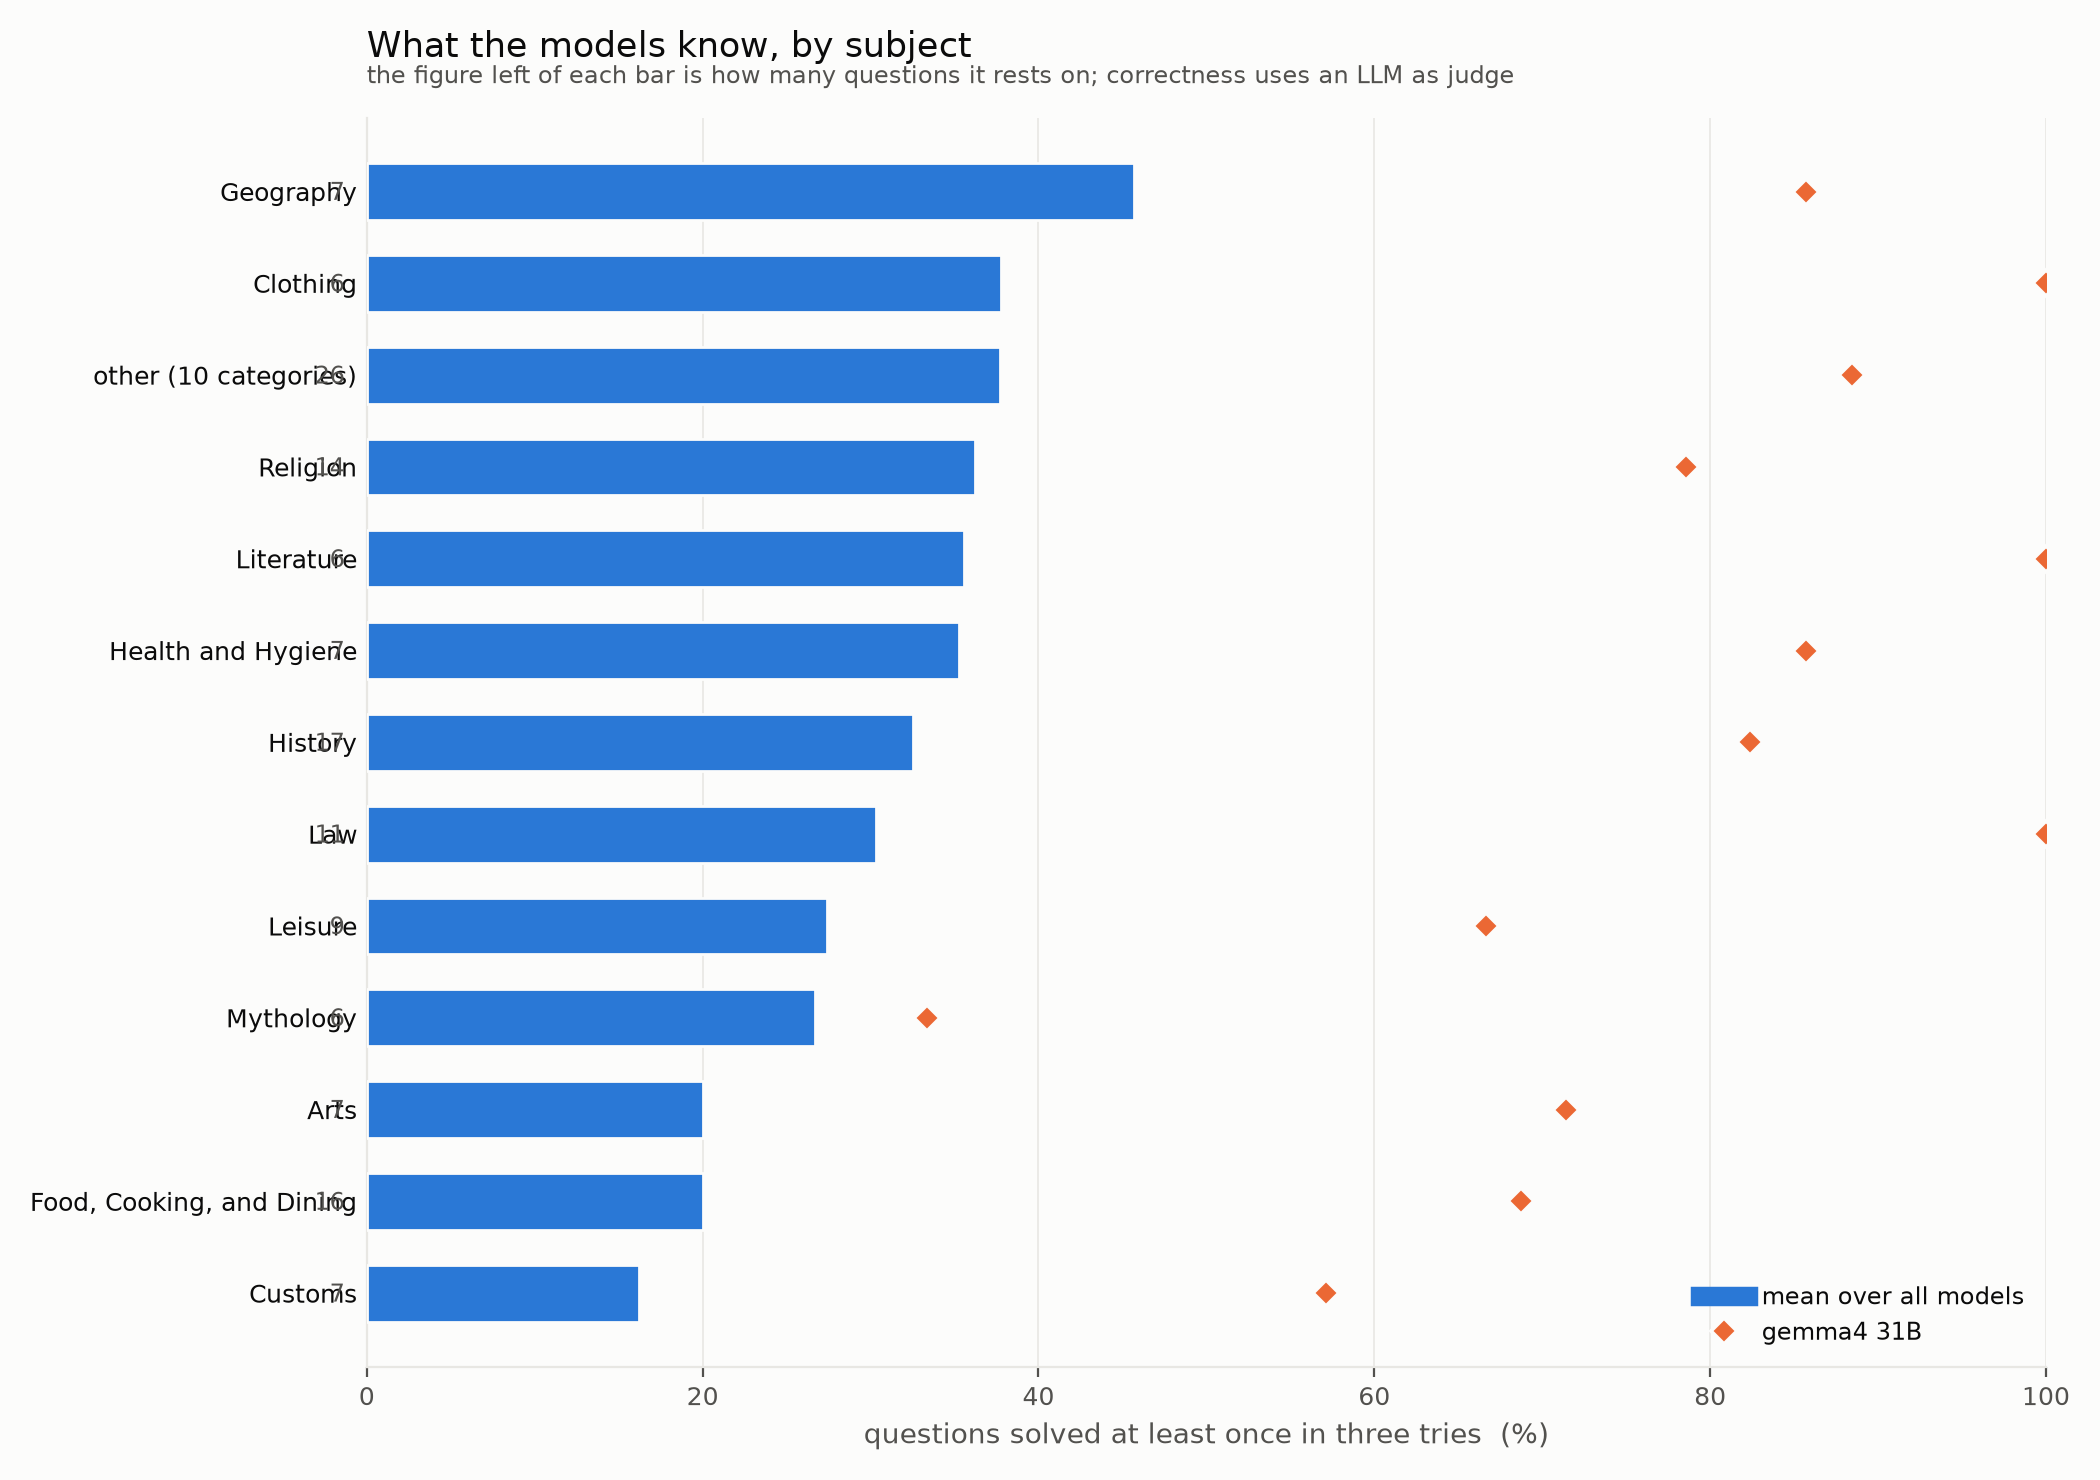
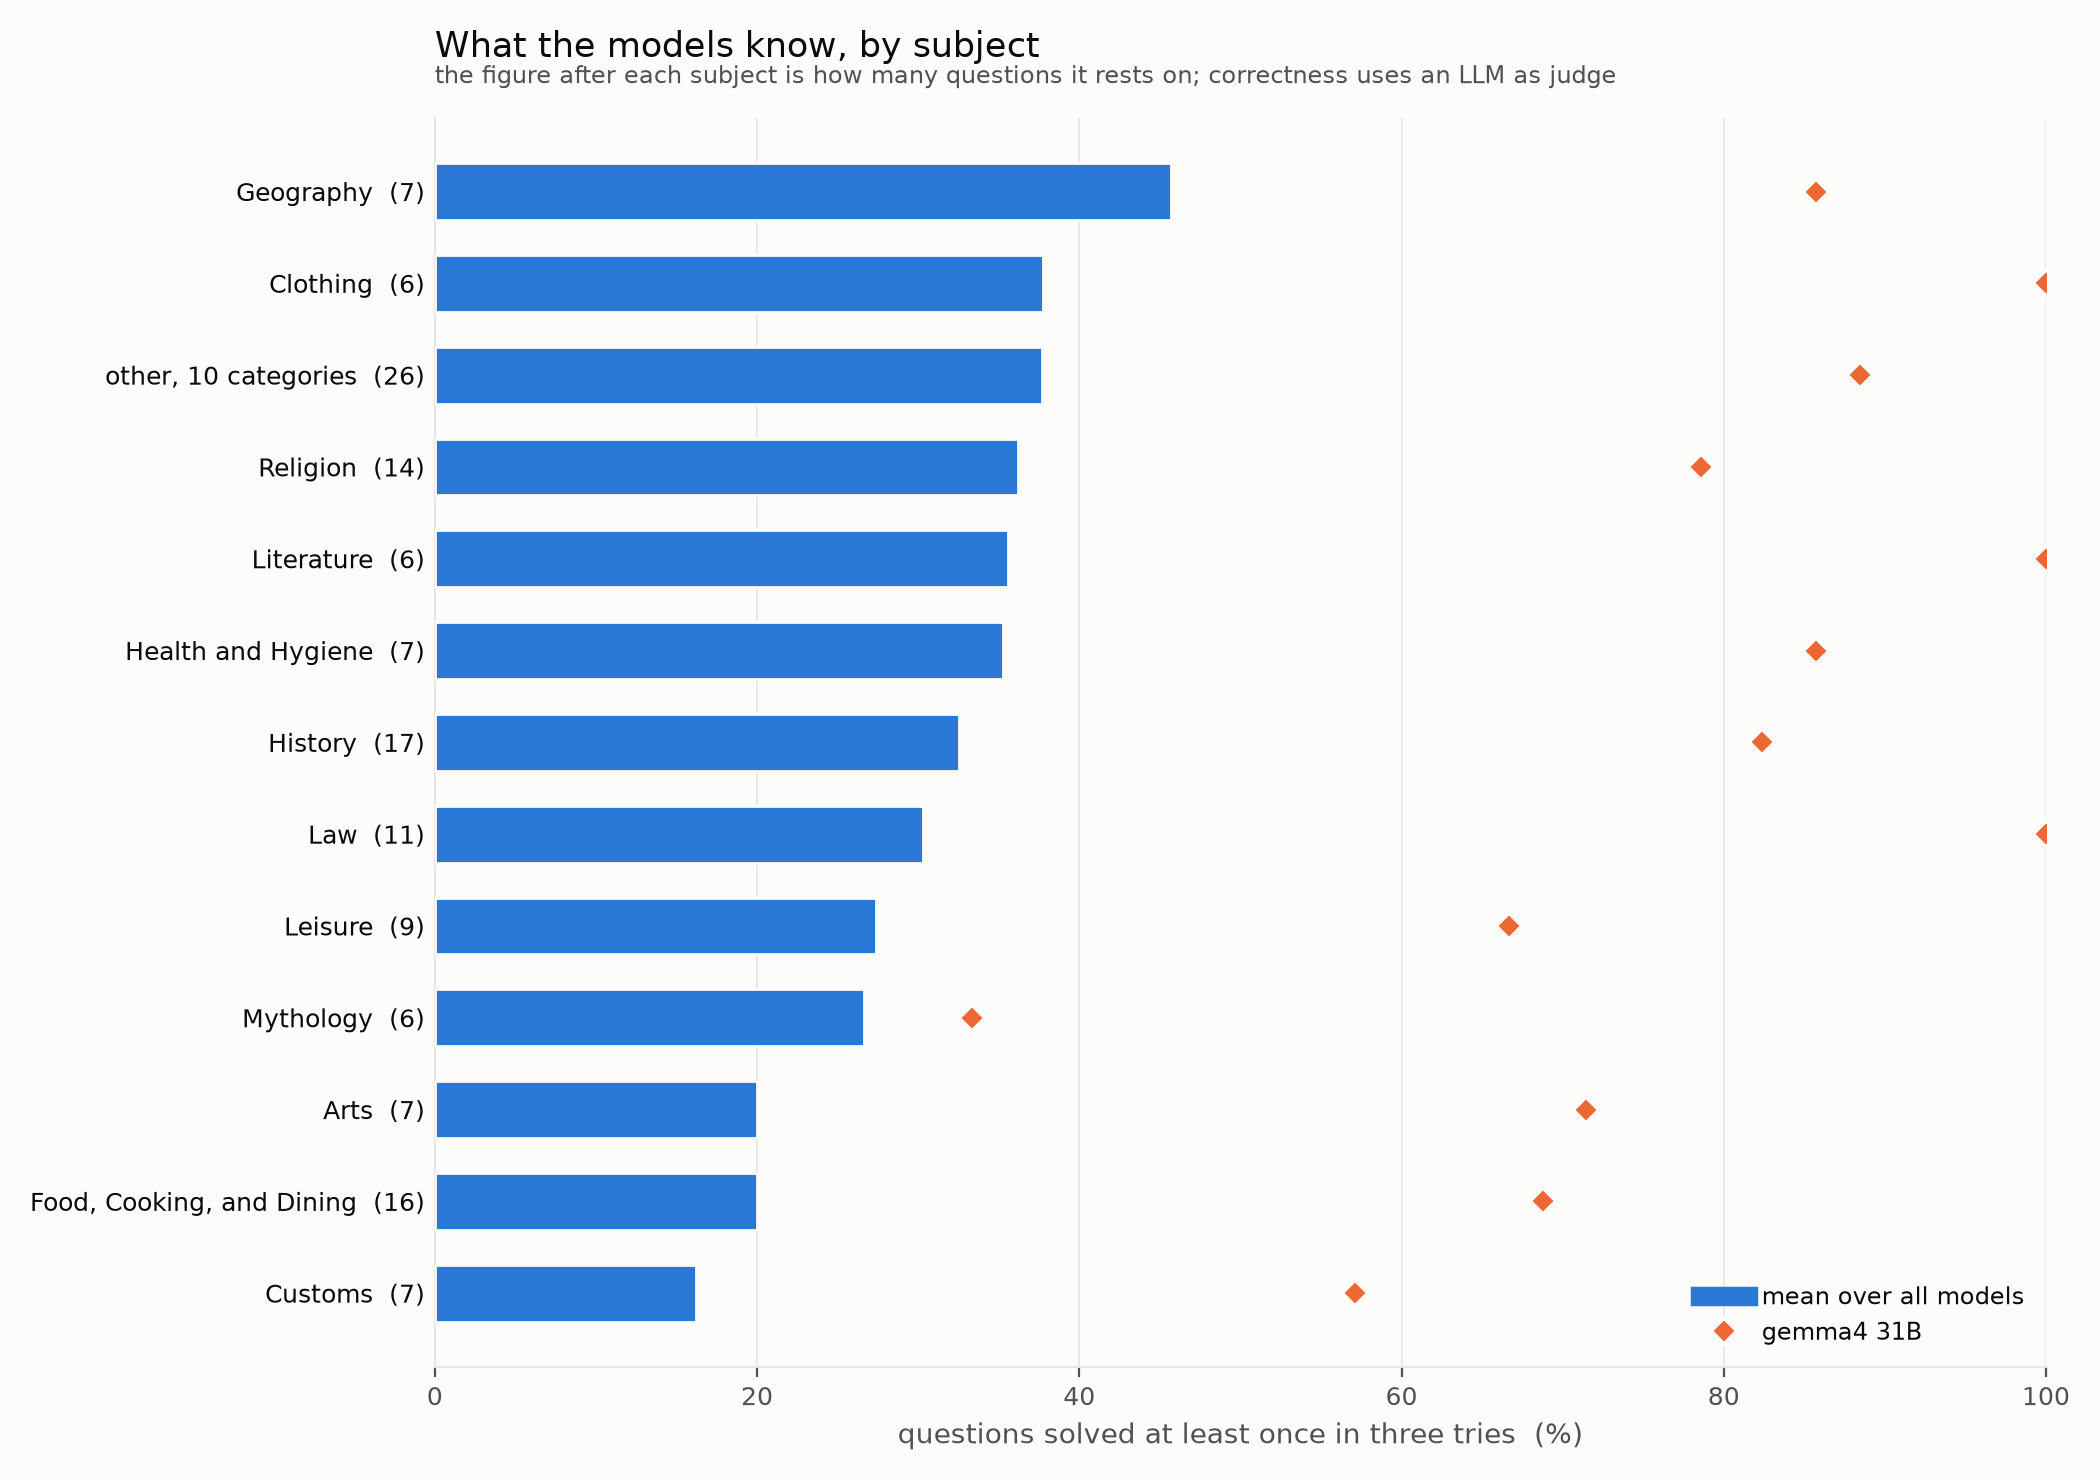
category-knowledge: stop the question count colliding with the subject
The count was annotated at data x=0 with a right-aligned offset, which
puts it on top of the y tick label rather than beside the bar:
"Geograph7y", "Religio14n". It rides in the tick label now, where nothing
else is drawn. Setting it at the bar's end was the other option and would
have collided with the reference marker on the short bars.

Claude-Session: https://claude.ai/code/session_01Lmq72U59stJL8KjcFk9BQq

diff --git a/graphs/category_knowledge.py b/graphs/category_knowledge.py
@@ -64,8 +64,13 @@ def tabulate(qa_path, eval_dir, min_q):
     rows = []
     for c in per:
         n = sum(nq[k] for k in nq if (k == c or (c == "other" and k in folded)))
+        name = c if c != "other" else f"other, {len(folded)} categories"
         rows.append({
-            "category": c if c != "other" else f"other ({len(folded)} categories)",
+            "category": name,
+            # The question count rides in the tick label. Set beside the axis it
+            # lands on top of the subject name; set at the bar's end it collides
+            # with the reference marker.
+            "label": f"{name}  ({n})",
             "questions": n,
             "mean": 100 * sum(per[c]) / len(per[c]),
             "top": 100 * sum(top[c]) / len(top[c]) if top[c] else None,
@@ -92,11 +97,9 @@ def render_png(rows, best, path):
         if r["top"] is not None:
             ax.plot(r["top"], y, "D", ms=6.5, color=TOP, mec=E.SURFACE, mew=1.3,
                     zorder=6)
-        ax.annotate(f"{r['questions']}", (0, y), textcoords="offset points",
-                    xytext=(-8, -3), ha="right", fontsize=8.5, color=E.MUTED)
 
     ax.set_yticks(list(ys))
-    ax.set_yticklabels([r["category"] for r in rows], fontsize=9)
+    ax.set_yticklabels([r["label"] for r in rows], fontsize=9)
     ax.tick_params(axis="y", length=0, colors=E.INK)
     ax.set_ylim(-0.8, len(rows) - 0.2)
     ax.set_xlim(0, 100)
@@ -113,7 +116,7 @@ def render_png(rows, best, path):
 
     ax.set_title("What the models know, by subject",
                  fontsize=12.5, color=E.INK, loc="left", pad=22)
-    ax.text(0, 1.028, "the figure left of each bar is how many questions it rests on; "
+    ax.text(0, 1.028, "the figure after each subject is how many questions it rests on; "
                       "correctness uses an LLM as judge",
             transform=ax.transAxes, fontsize=8.5, color=E.MUTED)
 
@@ -138,7 +141,7 @@ def render_tex(rows, best, path):
          r"  tick label style={font=\footnotesize, color=muted},",
          rf"  xmin=0, xmax=100, ymin=-0.8, ymax={len(rows) - 0.2},",
          r"  ytick={" + ",".join(str(i) for i in range(len(rows))) + "},",
-         r"  yticklabels={" + ",".join(esc(r["category"]) for r in rows) + "},",
+         r"  yticklabels={" + ",".join(esc(r["label"]) for r in rows) + "},",
          r"  ytick style={draw=none},",
          r"  yticklabel style={font=\footnotesize, color=ink},",
          r"  xmajorgrids, grid style={gridc, line width=0.3pt},",

diff --git a/graphs/category_knowledge.tex b/graphs/category_knowledge.tex
@@ -17,7 +17,7 @@
   tick label style={font=\footnotesize, color=muted},
   xmin=0, xmax=100, ymin=-0.8, ymax=12.8,
   ytick={0,1,2,3,4,5,6,7,8,9,10,11,12},
-  yticklabels={Customs,Food, Cooking, and Dining,Arts,Mythology,Leisure,Law,History,Health and Hygiene,Literature,Religion,other (10 categories),Clothing,Geography},
+  yticklabels={Customs  (7),Food, Cooking, and Dining  (16),Arts  (7),Mythology  (6),Leisure  (9),Law  (11),History  (17),Health and Hygiene  (7),Literature  (6),Religion  (14),other, 10 categories  (26),Clothing  (6),Geography  (7)},
   ytick style={draw=none},
   yticklabel style={font=\footnotesize, color=ink},
   xmajorgrids, grid style={gridc, line width=0.3pt},
